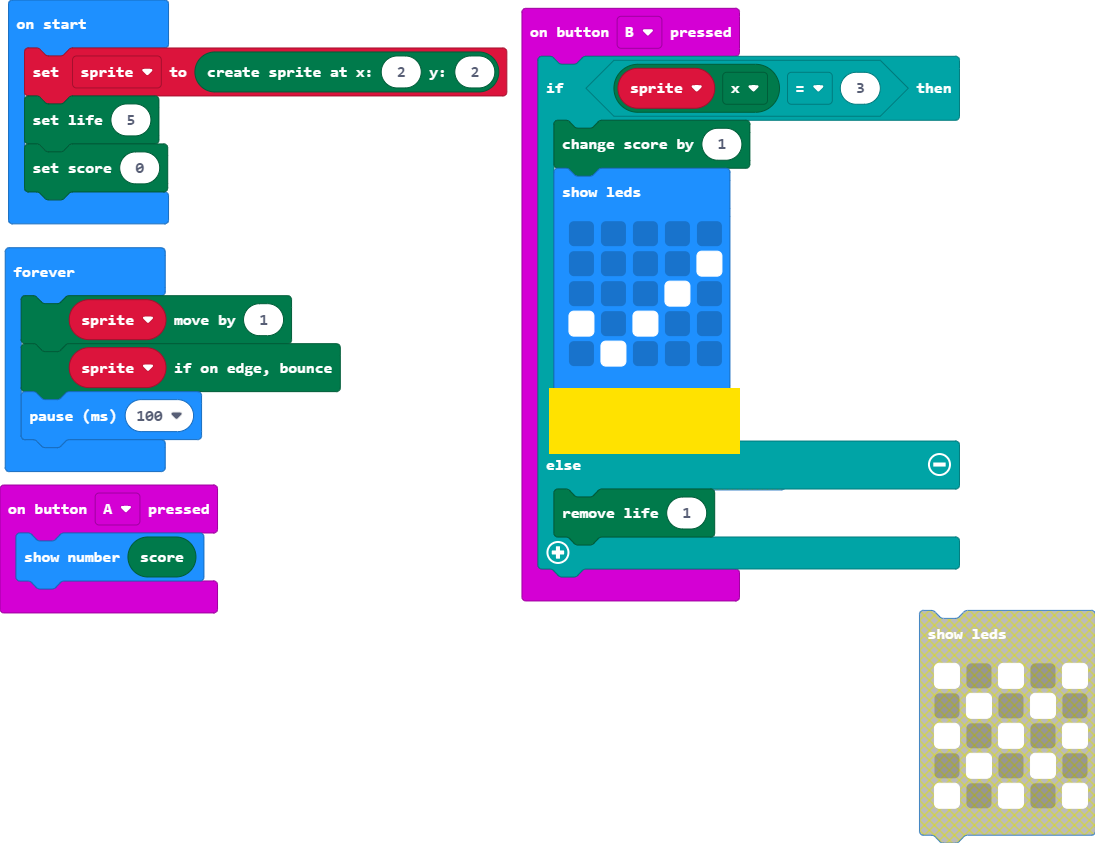
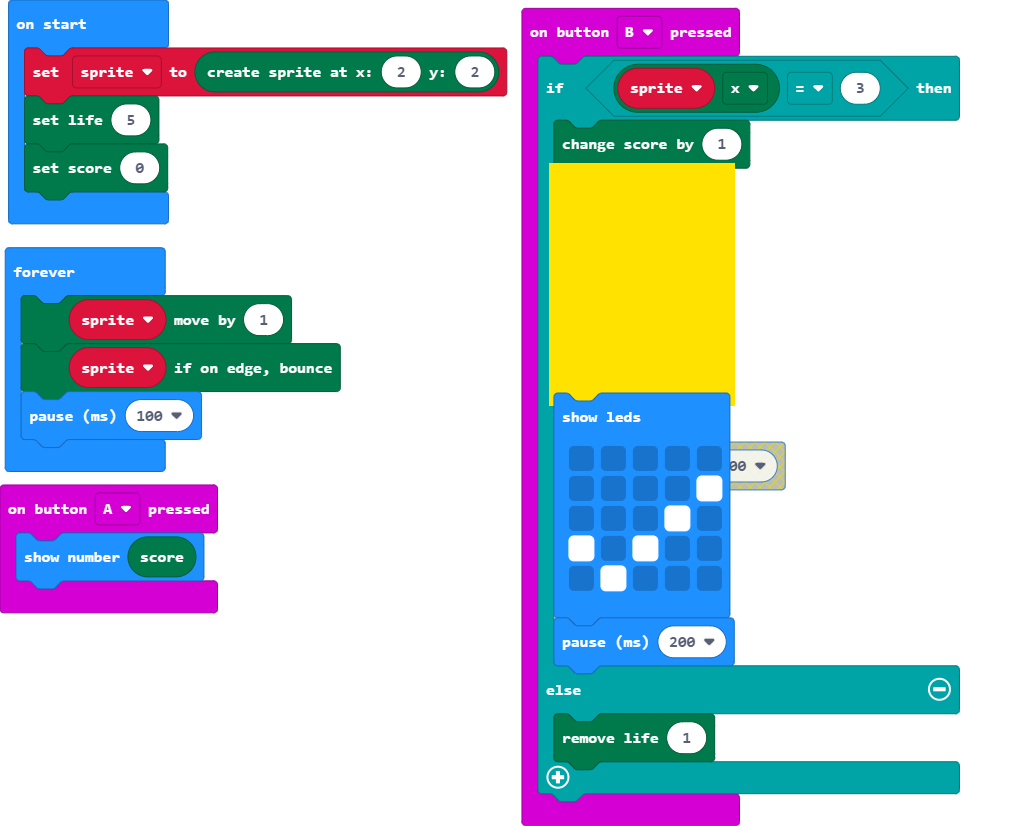
Update main.blocks, main.ts

diff --git a/main.ts b/main.ts
@@ -5,6 +5,13 @@ input.onButtonPressed(Button.B, function () {
     if (sprite.get(LedSpriteProperty.X) == 3) {
         game.addScore(1)
         basic.showLeds(`
+            # . # . #
+            . # . # .
+            # . # . #
+            . # . # .
+            # . # . #
+            `)
+        basic.showLeds(`
             . . . . .
             . . . . #
             . . . # .
